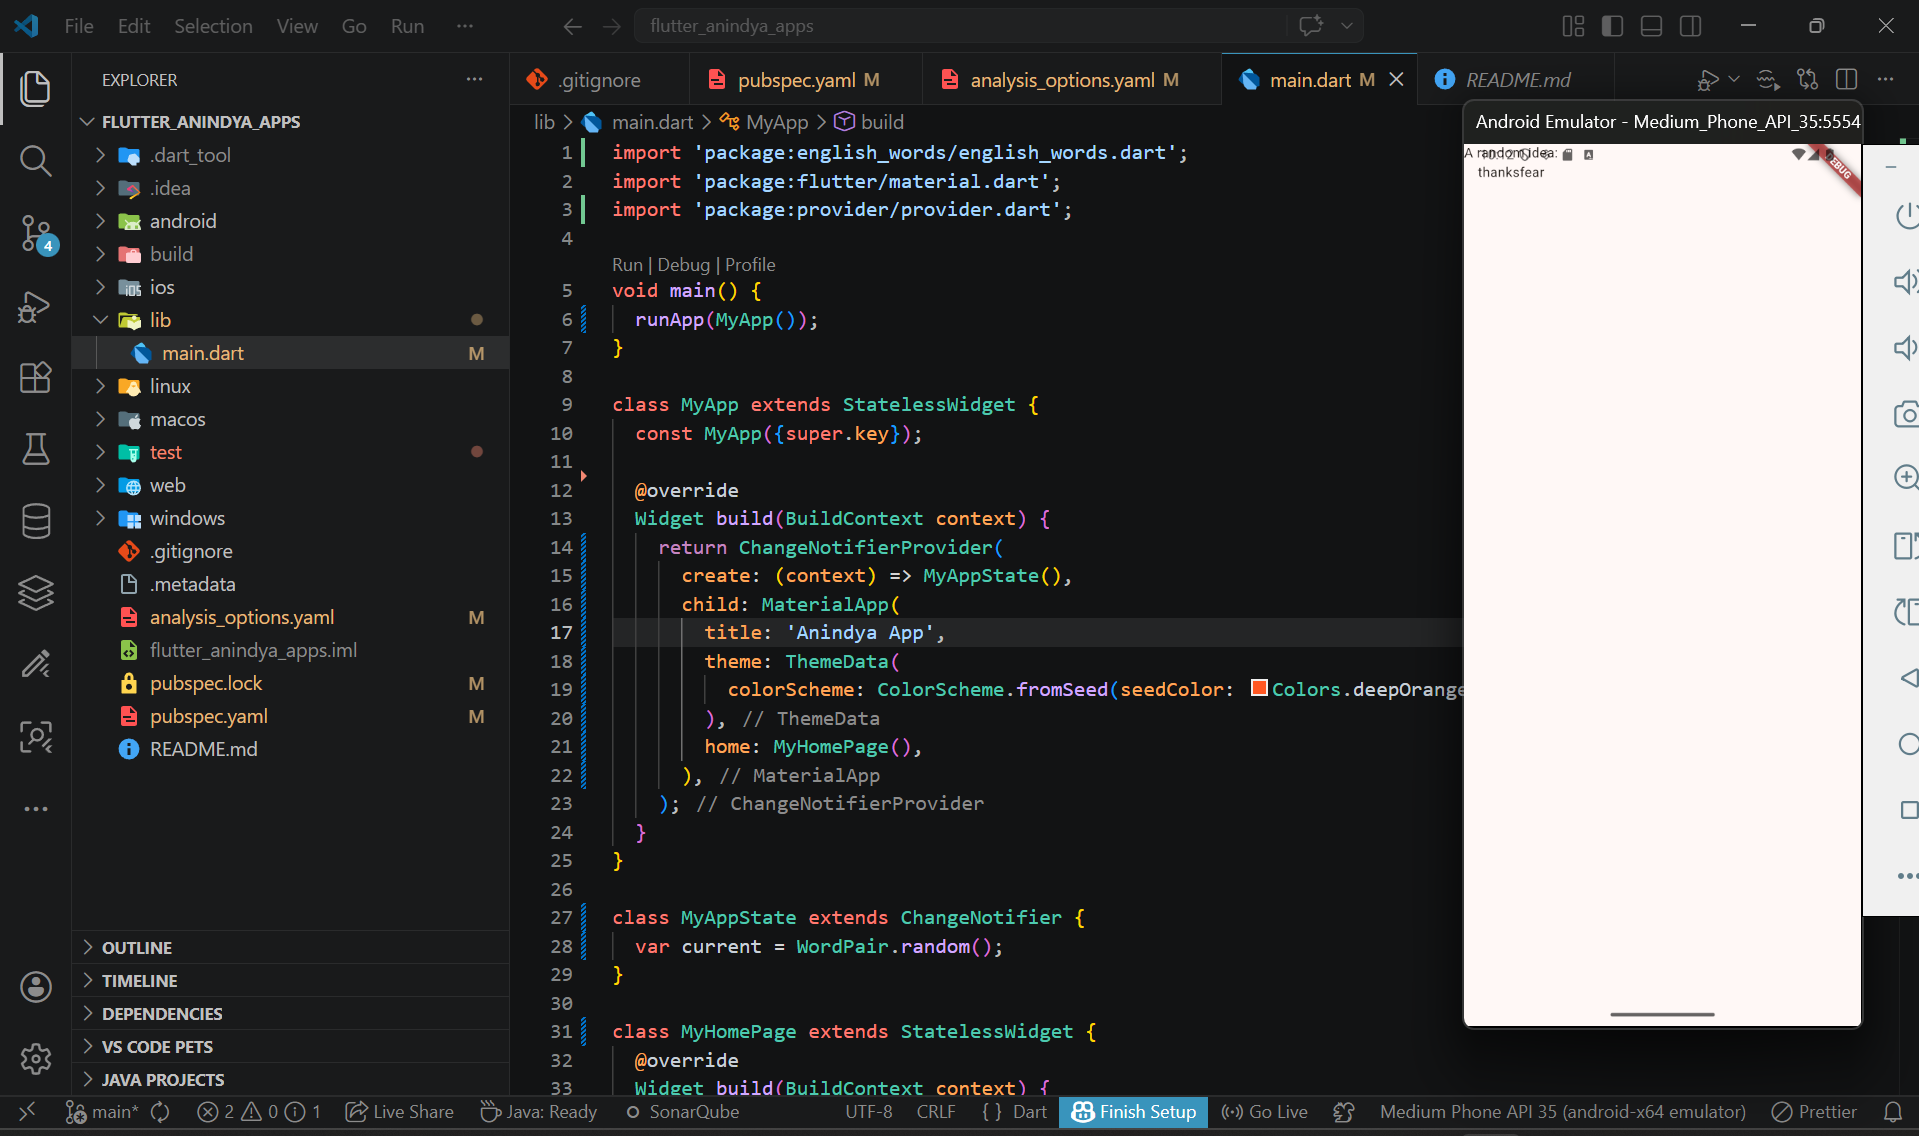
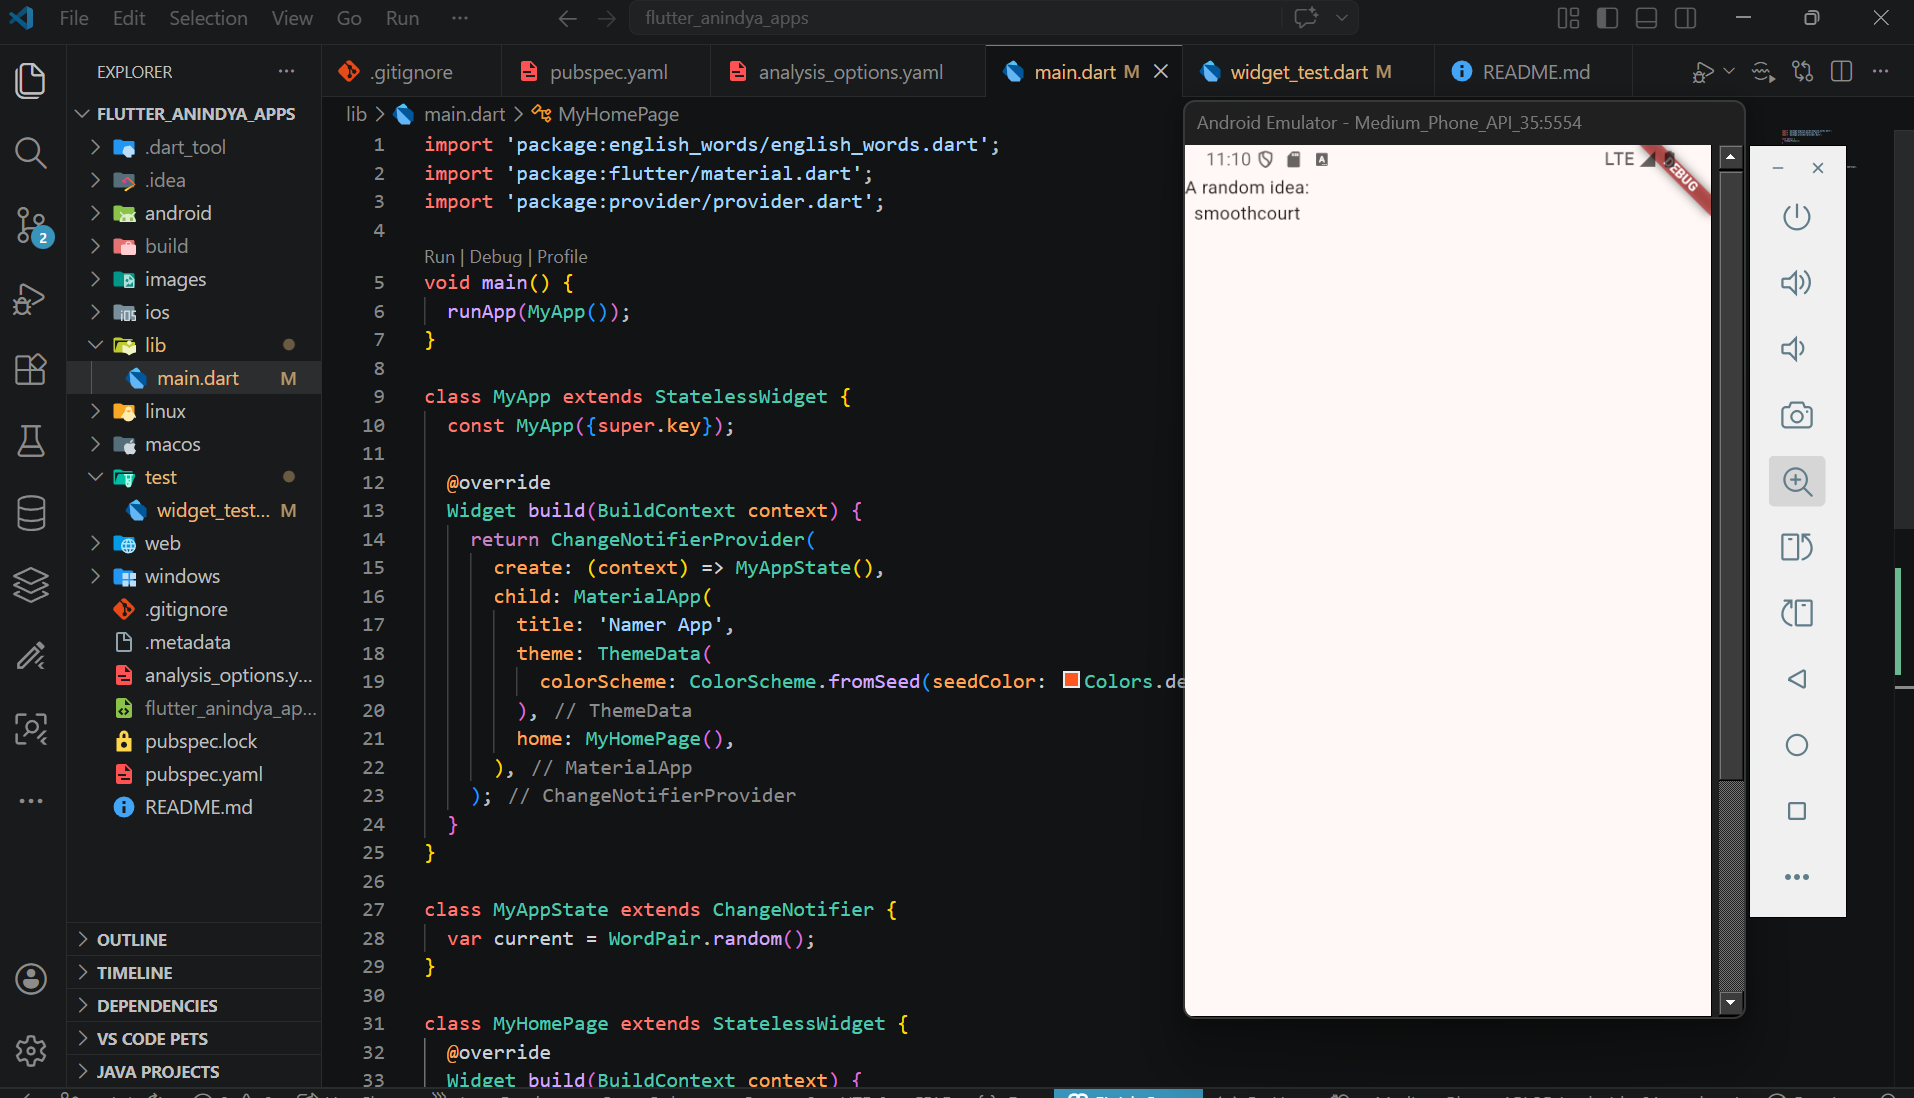
hot reload

diff --git a/lib/main.dart b/lib/main.dart
@@ -34,9 +34,14 @@ class MyHomePage extends StatelessWidget {
     var appState = context.watch<MyAppState>();
 
     return Scaffold(
-      body: Column(
-        children: [Text('A random idea:'), Text(appState.current.asLowerCase)],
+    body: SafeArea(
+      child: Column(
+        children: [
+          Text("A random AWESOME idea:"),
+          Text(appState.current.asLowerCase),
+        ],
       ),
-    );
+    ),
+  );
   }
 }

diff --git a/test/widget_test.dart b/test/widget_test.dart
@@ -8,7 +8,7 @@
 import 'package:flutter/material.dart';
 import 'package:flutter_test/flutter_test.dart';
 
-import 'package:flutter_anindya_apps/main.dart';
+import 'package:anindya_apps/main.dart';
 
 void main() {
   testWidgets('Counter increments smoke test', (WidgetTester tester) async {

diff --git a/README.md b/README.md
@@ -5,3 +5,5 @@ A new Flutter project.
 ## Getting Started
 
 ![Screenshot first flutter project](images/01.png)
+![Screenshot first hot reload](images/02.png)
+
